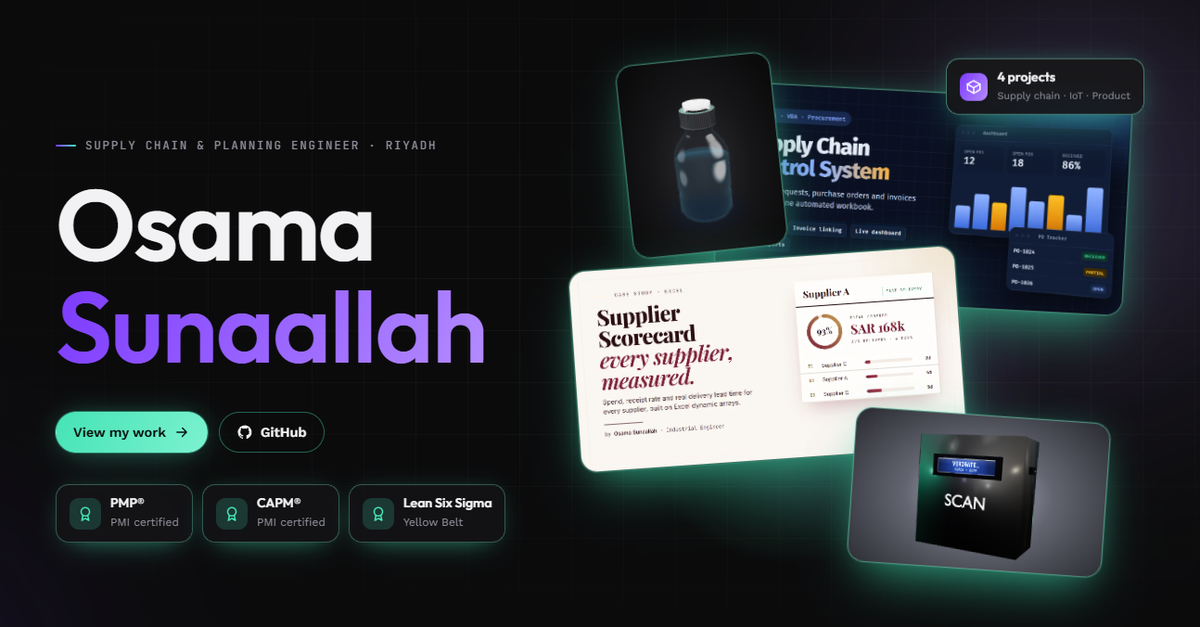
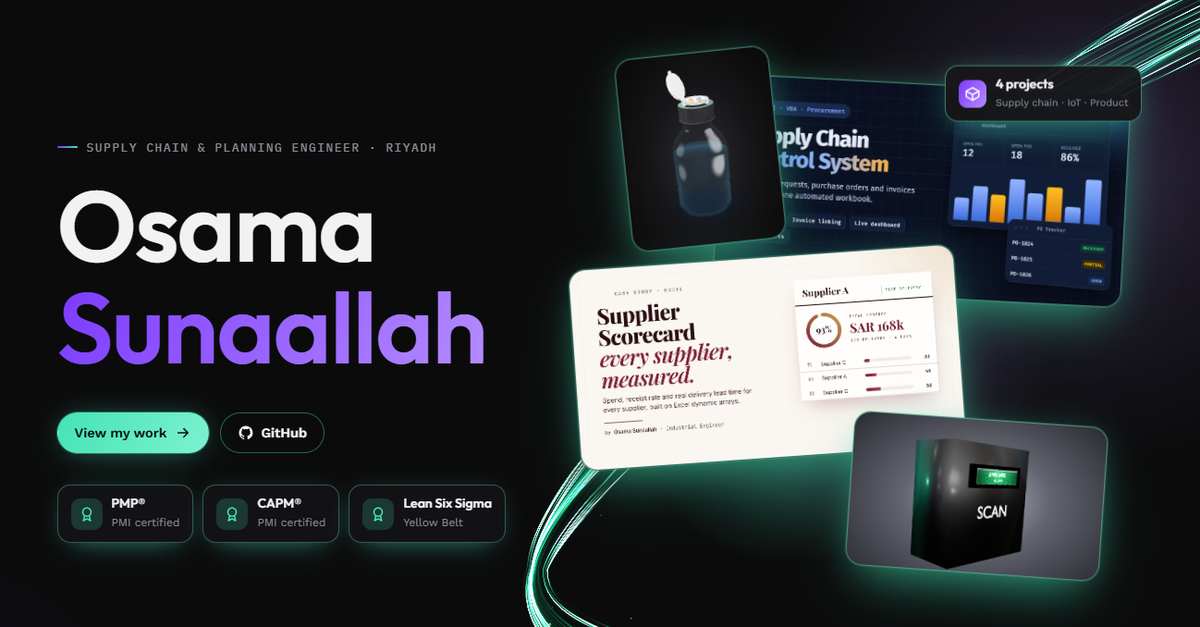
Smoother 3D start-up (warm-up frames) and new share image v10 with the light stream

diff --git a/assets/hydracap3d.js b/assets/hydracap3d.js
@@ -351,6 +351,8 @@ function mountBottles(el){
   };
   // compile the shaders in the background first, so the first frame does not freeze the page
   // the hero bottle shows as soon as possible; other bottles compile their shaders in the background first
-  (el.closest('.hero') || !R.compileAsync ? Promise.resolve() : R.compileAsync(S, cam).catch(() => {})).then(() => new IntersectionObserver(([e]) => { visible = e.isIntersecting; if (visible && !raf) raf = requestAnimationFrame(loop); }, { rootMargin: '120px' }).observe(el));
+  (el.closest('.hero') || !R.compileAsync ? Promise.resolve() : R.compileAsync(S, cam).catch(() => {}).then(() => new Promise(ok => (window.requestIdleCallback || setTimeout)(() => { R.render(S, cam); ok(); }, { timeout: 2000 }))))
+    // ^ off-screen bottles also draw one warm-up frame while the page is idle, so scrolling to them never freezes on the GPU upload
+    .then(() => new IntersectionObserver(([e]) => { visible = e.isIntersecting; if (visible && !raf) raf = requestAnimationFrame(loop); }, { rootMargin: '120px' }).observe(el));
 }
 document.querySelectorAll('.bottle3d').forEach(el => (window.__q3d || ((e, f) => f(e)))(el, mountBottles));

diff --git a/assets/verigate-explode.js b/assets/verigate-explode.js
@@ -310,5 +310,8 @@ function start(host){
     });
   };
   // compile the shaders in the background first, so the first frame does not freeze the page
-  (R.compileAsync ? R.compileAsync(S, cam).catch(() => {}) : Promise.resolve()).then(() => new IntersectionObserver(([e]) => { visible = e.isIntersecting; if (visible && !raf) raf = requestAnimationFrame(frame); }, { rootMargin: '120px' }).observe(host));
+  (R.compileAsync ? R.compileAsync(S, cam).catch(() => {}) : Promise.resolve())
+    // one warm-up frame while the page is idle, so the first frame on screen does not freeze on the GPU upload
+    .then(() => new Promise(ok => (window.requestIdleCallback || setTimeout)(() => { R.render(S, cam); ok(); }, { timeout: 2000 })))
+    .then(() => new IntersectionObserver(([e]) => { visible = e.isIntersecting; if (visible && !raf) raf = requestAnimationFrame(frame); }, { rootMargin: '120px' }).observe(host));
 }
